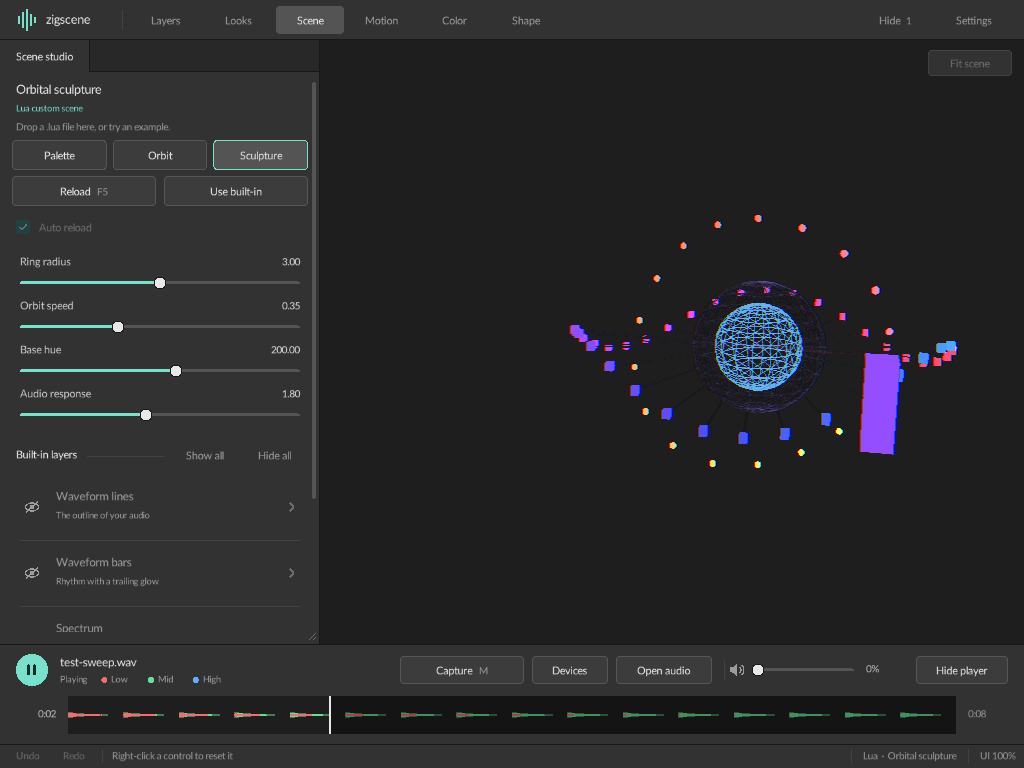
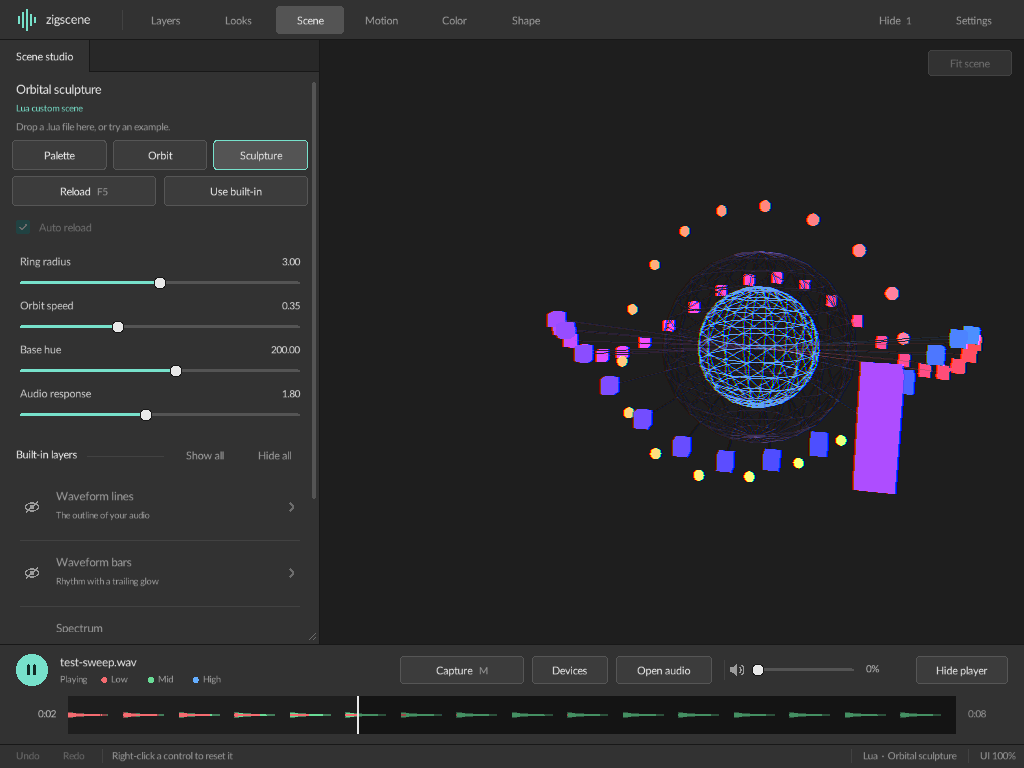
Sharpen the seek waveform's frequency bands
Split low, mid, and high with 4th-order Linkwitz-Riley crossovers instead of
single Butterworth stages. A 700 Hz tone drew about 11% of its height as low
and a 110 Hz tone about 18% as mid; both now stay under 5%. Refresh the
README screenshots for the cleaner player colors.

diff --git a/docs/usage.md b/docs/usage.md
@@ -51,8 +51,8 @@ average signal level. Its colors show frequency bands:
 | Green | Mid: 250 Hz–4 kHz |
 | Blue | High: above 4 kHz |
 
-Colored thickness shows each band's relative RMS. Filters overlap around the
-crossovers. The preview uses the source file's sample rate and up to 8,192 bins,
+Colored thickness shows each band's relative RMS. Steep 24 dB-per-octave
+filters split the bands, so colors blend only near the crossovers. The preview uses the source file's sample rate and up to 8,192 bins,
 then combines bins for the display without skipping transients.
 
 Native MP3/WAV/OGG previews build in the background. A preview may take a moment
